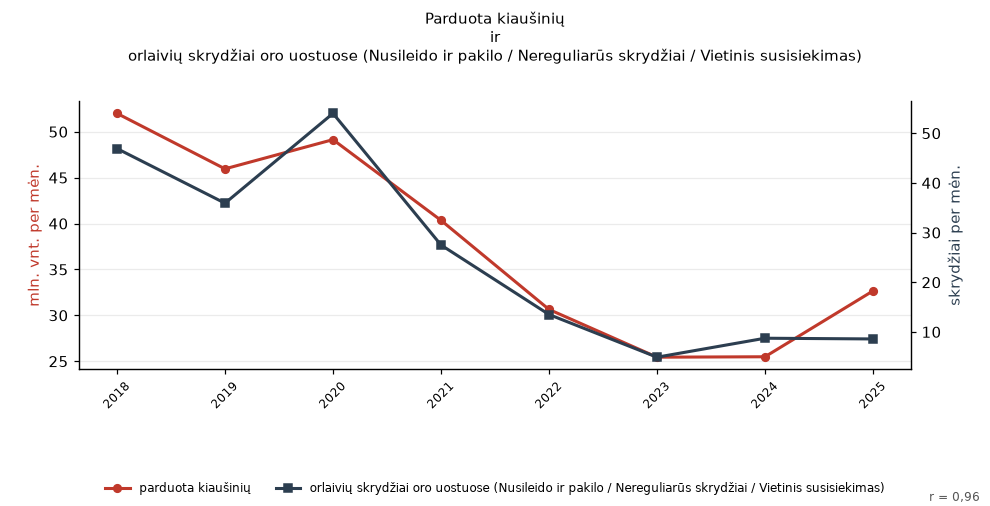
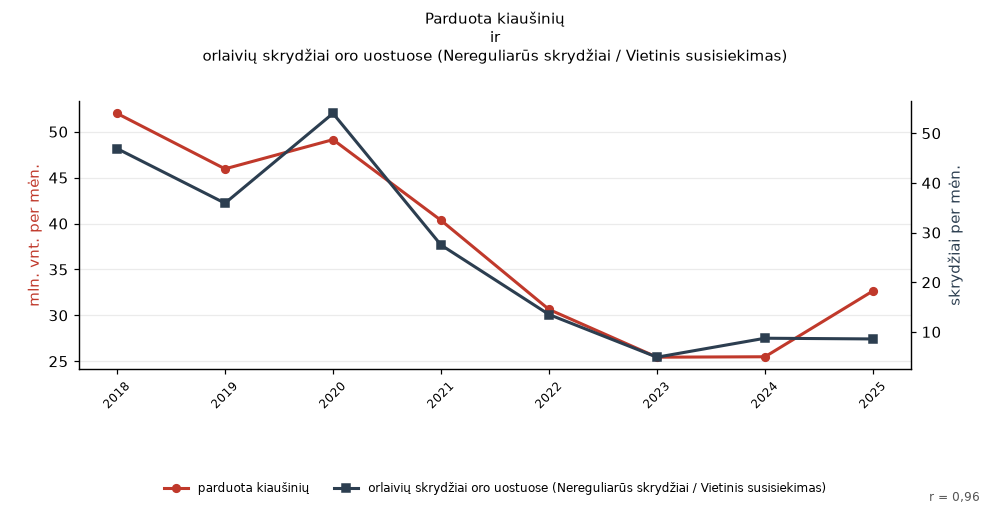
Post: shorter flights label

Changed region(s): [[0.0909, 0.9486, 0.9091, 0.9783], [0.1212, 0.0889, 0.8788, 0.1186]]

diff --git a/post/2026-10-23-508494e4/index.html b/post/2026-10-23-508494e4/index.html
@@ -1,10 +1,10 @@
 <!doctype html>
 <html lang="lt"><head><meta charset="utf-8">
 <meta name="viewport" content="width=device-width, initial-scale=1">
-<title>Pastaraisiais metais lyg tyčia sutapo: parduota kiaušinių ir orlaivių skrydžiai oro uostuose (Nusileido ir pakilo / Nereguliarūs skrydžiai / Vietinis susisiekimas) · Lyg tyčia</title>
+<title>Pastaraisiais metais lyg tyčia sutapo: parduota kiaušinių ir orlaivių skrydžiai oro uostuose (Nereguliarūs skrydžiai / Vietinis susisiekimas) · Lyg tyčia</title>
 <meta property="og:type" content="article">
 <meta property="og:site_name" content="Lyg tyčia">
-<meta property="og:title" content="Pastaraisiais metais lyg tyčia sutapo: parduota kiaušinių ir orlaivių skrydžiai oro uostuose (Nusileido ir pakilo / Nereguliarūs skrydžiai / Vietinis susisiekimas)">
+<meta property="og:title" content="Pastaraisiais metais lyg tyčia sutapo: parduota kiaušinių ir orlaivių skrydžiai oro uostuose (Nereguliarūs skrydžiai / Vietinis susisiekimas)">
 <meta property="og:description" content="Parduota kiaušinių ir orlaivių skrydžiai oro uostuose (Nusileido ir pakilo / Nereguliarūs skrydžiai / Vietinis susisiekimas) kyla ir krenta kartu: r = 0,96 per 8 m. (2018 – 2025).">
 <meta property="og:url" content="https://1gnas3000.github.io/lygtycia/post/2026-10-23-508494e4/">
 <meta property="og:image" content="https://1gnas3000.github.io/lygtycia/post/2026-10-23-508494e4/chart.png">
@@ -26,18 +26,18 @@
 <article><p class="meta">2026-10-23
  · panašios kreivės · metų duomenys
  · r = 0,96</p>
-<h2>Pastaraisiais metais lyg tyčia sutapo: parduota kiaušinių ir orlaivių skrydžiai oro uostuose (Nusileido ir pakilo / Nereguliarūs skrydžiai / Vietinis susisiekimas)</h2>
+<h2>Pastaraisiais metais lyg tyčia sutapo: parduota kiaušinių ir orlaivių skrydžiai oro uostuose (Nereguliarūs skrydžiai / Vietinis susisiekimas)</h2>
 
 <p><a href="../../post/2026-10-23-508494e4/"><img src="../../post/2026-10-23-508494e4/chart.png"
  alt="grafikas" loading="lazy"></a></p>
 <p class="sources">Duomenų šaltiniai:
  <a href="https://osp.stat.gov.lt/statistiniu-rodikliu-analize?indicator=S9R145" rel="noopener">Parduoti kiaušiniai (Valstybės duomenų agentūra)</a> · <a href="https://osp.stat.gov.lt/statistiniu-rodikliu-analize?indicator=S5R055" rel="noopener">Orlaivių skrydžiai oro uostuose (Valstybės duomenų agentūra)</a></p>
 
-<p class="text">Parduota kiaušinių ir orlaivių skrydžiai oro uostuose (Nusileido ir pakilo / Nereguliarūs skrydžiai / Vietinis susisiekimas) kyla ir krenta kartu: r = 0,96 per 8 m. (2018 – 2025).</p><p class="text">Duomenys: „parduota kiaušinių“ (mln. vnt.) ir „orlaivių skrydžiai oro uostuose (Nusileido ir pakilo / Nereguliarūs skrydžiai / Vietinis susisiekimas)“ (skrydžiai).</p><p class="text">Tyler Vigen&#39;o „Spurious Correlations“ dvasia: iš tūkstančių atsitiktinių Lietuvos atvirų duomenų porų šios dvi nupiešė tą pačią kreivę.</p>
+<p class="text">Parduota kiaušinių ir orlaivių skrydžiai oro uostuose (Nusileido ir pakilo / Nereguliarūs skrydžiai / Vietinis susisiekimas) kyla ir krenta kartu: r = 0,96 per 8 m. (2018 – 2025).</p><p class="text">Duomenys: „parduota kiaušinių“ (mln. vnt.) ir „orlaivių skrydžiai oro uostuose (Nereguliarūs skrydžiai / Vietinis susisiekimas)“ (skrydžiai).</p><p class="text">Tyler Vigen&#39;o „Spurious Correlations“ dvasia: iš tūkstančių atsitiktinių Lietuvos atvirų duomenų porų šios dvi nupiešė tą pačią kreivę.</p>
 <p class="share">Dalintis:
  <a href="https://www.facebook.com/sharer/sharer.php?u=https%3A//1gnas3000.github.io/lygtycia/post/2026-10-23-508494e4/"
  rel="noopener">Facebook</a> ·
- <a href="https://mastodonshare.com/?text=Pastaraisiais%20metais%20lyg%20ty%C4%8Dia%20sutapo%3A%20parduota%20kiau%C5%A1ini%C5%B3%20ir%20orlaivi%C5%B3%20skryd%C5%BEiai%20oro%20uostuose%20%28Nusileido%20ir%20pakilo%20/%20Nereguliar%C5%ABs%20skryd%C5%BEiai%20/%20Vietinis%20susisiekimas%29&url=https%3A//1gnas3000.github.io/lygtycia/post/2026-10-23-508494e4/"
+ <a href="https://mastodonshare.com/?text=Pastaraisiais%20metais%20lyg%20ty%C4%8Dia%20sutapo%3A%20parduota%20kiau%C5%A1ini%C5%B3%20ir%20orlaivi%C5%B3%20skryd%C5%BEiai%20oro%20uostuose%20%28Nereguliar%C5%ABs%20skryd%C5%BEiai%20/%20Vietinis%20susisiekimas%29&url=https%3A//1gnas3000.github.io/lygtycia/post/2026-10-23-508494e4/"
  rel="noopener">Mastodon</a> ·
  <a href="https://www.linkedin.com/sharing/share-offsite/?url=https%3A//1gnas3000.github.io/lygtycia/post/2026-10-23-508494e4/"
  rel="noopener">LinkedIn</a></p>

diff --git a/index.html b/index.html
@@ -18,7 +18,7 @@
 <p class="meta">Kasdien – dvi Lietuvos atvirų duomenų kreivės, kurios lyg tyčia sutapo.</p>
 </header>
 <article><p class="meta">2026-10-23</p>
-<h2><a href="./post/2026-10-23-508494e4/">Pastaraisiais metais lyg tyčia sutapo: parduota kiaušinių ir orlaivių skrydžiai oro uostuose (Nusileido ir pakilo / Nereguliarūs skrydžiai / Vietinis susisiekimas)</a></h2>
+<h2><a href="./post/2026-10-23-508494e4/">Pastaraisiais metais lyg tyčia sutapo: parduota kiaušinių ir orlaivių skrydžiai oro uostuose (Nereguliarūs skrydžiai / Vietinis susisiekimas)</a></h2>
 
 <p><a href="./post/2026-10-23-508494e4/"><img src="./post/2026-10-23-508494e4/chart.png"
  alt="grafikas" loading="lazy"></a></p>
@@ -29,7 +29,7 @@
 <p class="share">Dalintis:
  <a href="https://www.facebook.com/sharer/sharer.php?u=https%3A//1gnas3000.github.io/lygtycia/post/2026-10-23-508494e4/"
  rel="noopener">Facebook</a> ·
- <a href="https://mastodonshare.com/?text=Pastaraisiais%20metais%20lyg%20ty%C4%8Dia%20sutapo%3A%20parduota%20kiau%C5%A1ini%C5%B3%20ir%20orlaivi%C5%B3%20skryd%C5%BEiai%20oro%20uostuose%20%28Nusileido%20ir%20pakilo%20/%20Nereguliar%C5%ABs%20skryd%C5%BEiai%20/%20Vietinis%20susisiekimas%29&url=https%3A//1gnas3000.github.io/lygtycia/post/2026-10-23-508494e4/"
+ <a href="https://mastodonshare.com/?text=Pastaraisiais%20metais%20lyg%20ty%C4%8Dia%20sutapo%3A%20parduota%20kiau%C5%A1ini%C5%B3%20ir%20orlaivi%C5%B3%20skryd%C5%BEiai%20oro%20uostuose%20%28Nereguliar%C5%ABs%20skryd%C5%BEiai%20/%20Vietinis%20susisiekimas%29&url=https%3A//1gnas3000.github.io/lygtycia/post/2026-10-23-508494e4/"
  rel="noopener">Mastodon</a> ·
  <a href="https://www.linkedin.com/sharing/share-offsite/?url=https%3A//1gnas3000.github.io/lygtycia/post/2026-10-23-508494e4/"
  rel="noopener">LinkedIn</a></p></article>
